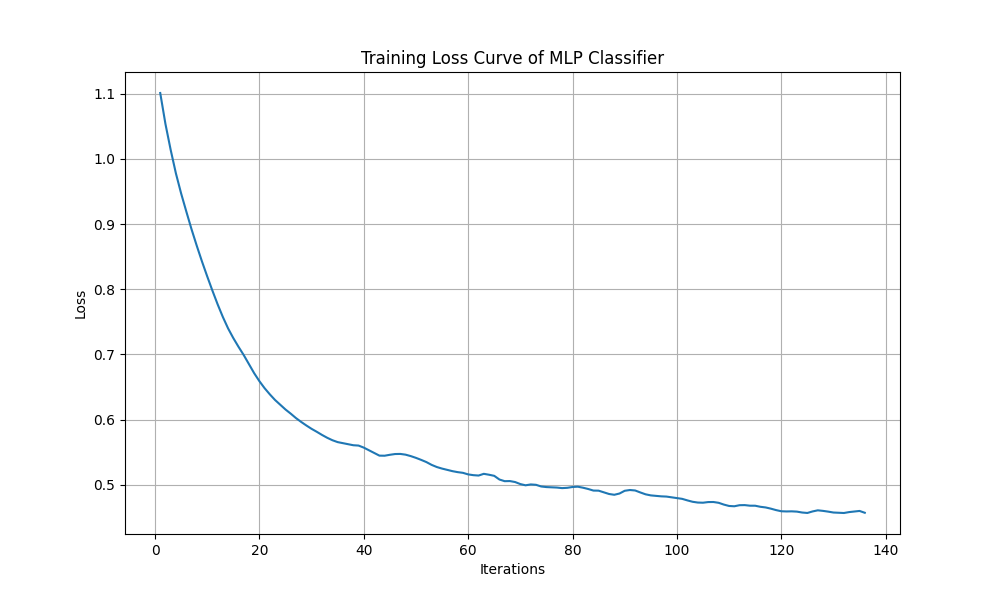
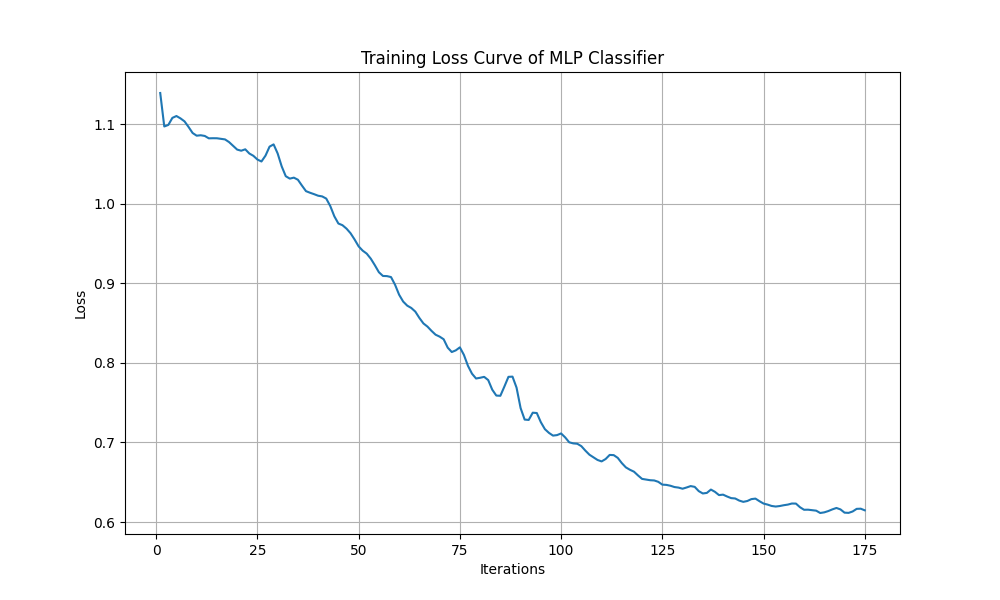
Ran More MLP Tests, including the Hyper-Parameter Training

diff --git a/Classifiers/MyMLP.py b/Classifiers/MyMLP.py
@@ -1,7 +1,7 @@
 import pandas as pd
 from sklearn.metrics import accuracy_score, classification_report, confusion_matrix
 from sklearn.discriminant_analysis import StandardScaler
-from sklearn.model_selection import train_test_split
+from sklearn.model_selection import GridSearchCV, RandomizedSearchCV, train_test_split
 from sklearn.neural_network import MLPClassifier
 from matplotlib import pyplot as plt
 import numpy as np
@@ -17,33 +17,39 @@ class MyMLP(MyClassifier):
 
     def test(self, metrics=False, max_iterations=10000, verbose=0):
 
-        y = self.df.pop("DX")
-        X = self.df
+        # y = self.df.pop("DX")
+        # X = self.df
 
-        X_train, X_test, y_train, y_test = train_test_split(X, y, test_size=0.2, random_state=42)
+        # X_train, X_test, self.y_train, self.y_test = train_test_split(X, y, test_size=0.2, random_state=42)
 
-        # Standardize features by removing the mean and scaling to unit variance
-        scaler = StandardScaler()
-        X_train_scaled = scaler.fit_transform(X_train)
-        X_test_scaled = scaler.transform(X_test)
+        # # Standardize features by removing the mean and scaling to unit variance
+        # scaler = StandardScaler()
+        # self.X_train_scaled = scaler.fit_transform(X_train)
+        # self.X_test_scaled = scaler.transform(X_test)
 
         # Initialize and train the MLP classifier
-        mlp_classifier = MLPClassifier(hidden_layer_sizes=(100, 50), max_iter=max_iterations, random_state=42, verbose=verbose)
-        mlp_classifier.fit(X_train_scaled, y_train)
+        mlp_classifier = MLPClassifier(
+            hidden_layer_sizes = self.grid_search.best_params_['hidden_layer_sizes'],
+            activation = self.grid_search.best_params_['activation'],
+            solver = self.grid_search.best_params_['solver'],
+            alpha = self.grid_search.best_params_['alpha'],
+            max_iter = max_iterations
+        )
+        mlp_classifier.fit(self.X_train_scaled, self.y_train)
 
         # Predict the labels for the test set
-        y_pred = mlp_classifier.predict(X_test_scaled)
+        y_pred = mlp_classifier.predict(self.X_test_scaled)
 
         # Calculate accuracy
-        accuracy = accuracy_score(y_test, y_pred)
+        accuracy = accuracy_score(self.y_test, y_pred)
         print("Accuracy:", accuracy)
 
         self.mlp_classifier = mlp_classifier
 
         if metrics == True:
-            print(classification_report(y_test, y_pred))
+            print(classification_report(self.y_test, y_pred))
 
-            print(confusion_matrix(y_test, y_pred, labels=['SCD', 'MCI', 'AD']))
+            print(confusion_matrix(self.y_test, y_pred, labels=['SCD', 'MCI', 'AD']))
 
     def plot_loss(self, file_name):
         # Plot the loss curve
@@ -54,3 +60,36 @@ class MyMLP(MyClassifier):
         plt.ylabel('Loss')
         plt.grid(True)
         plt.savefig(file_name)
+
+    def hyper_parameter_selection(self, verbose=0, file_name=""):
+        y = self.df.pop("DX")
+        X = self.df
+
+        X_train, X_test, self.y_train, self.y_test = train_test_split(X, y, test_size=0.2, random_state=42)
+
+        # Standardize features by removing the mean and scaling to unit variance
+        self.scaler = StandardScaler()
+        self.X_train_scaled = self.scaler.fit_transform(X_train)
+        self.X_test_scaled = self.scaler.transform(X_test)
+
+        mlp = MLPClassifier(max_iter=10000, verbose=verbose)
+
+        self.parameter_grid = {
+            'hidden_layer_sizes': [(50,), (100,), (50, 50), (100, 100), (50, 100), (5, 10)],
+            'activation': ['relu', 'tanh', 'logistic'],
+            'solver': ['sgd', 'adam'],
+            'alpha': [0.0001, 0.05]
+        }
+
+        self.parameters = ['hidden_layer_sizes', 'activation', 'solver', 'alpha']
+
+        clf = RandomizedSearchCV(mlp, self.parameter_grid, n_jobs=-1, cv=3, n_iter=72)
+
+        clf.fit(X_train, self.y_train)
+
+        print("Best Parameters: ", clf.best_params_)
+        print("Best Training Score: ", clf.best_score_)
+
+        self.grid_search = clf
+        #super().display_hyperparameter_results(grid_search=self.grid_search, parameters=self.parameters, param_grid=self.parameter_grid, file_name=file_name)
+

diff --git a/Classifiers/MyClassifier.py b/Classifiers/MyClassifier.py
@@ -44,7 +44,8 @@ class MyClassifier:
         for i, ax in enumerate(axes.flat):
             if i == len(parameters):
                 break
-            temp = results.groupby('param_' + parameters[i])['mean_test_score']
+            print("Here is the PARAM: " + parameters[i])
+            temp = results.groupby('param_' + str(parameters[i]))['mean_test_score']
             ax.plot(param_grid[parameters[i]], temp.mean(), color='blue', marker='o')
             ax.errorbar(param_grid[parameters[i]], temp.mean(), yerr=temp.std(), color='orange')
             ax.set_xlabel(parameters[i] + " value")

diff --git a/mlp.py b/mlp.py
@@ -5,6 +5,7 @@ def test(path, fields, file_output):
 
     # Before Removing Outliers
     print("Computing Results.......")
+    mlp.hyper_parameter_selection(verbose=0)
     mlp.test(metrics=True, max_iterations=2000)
     mlp.plot_loss(file_output)
 
